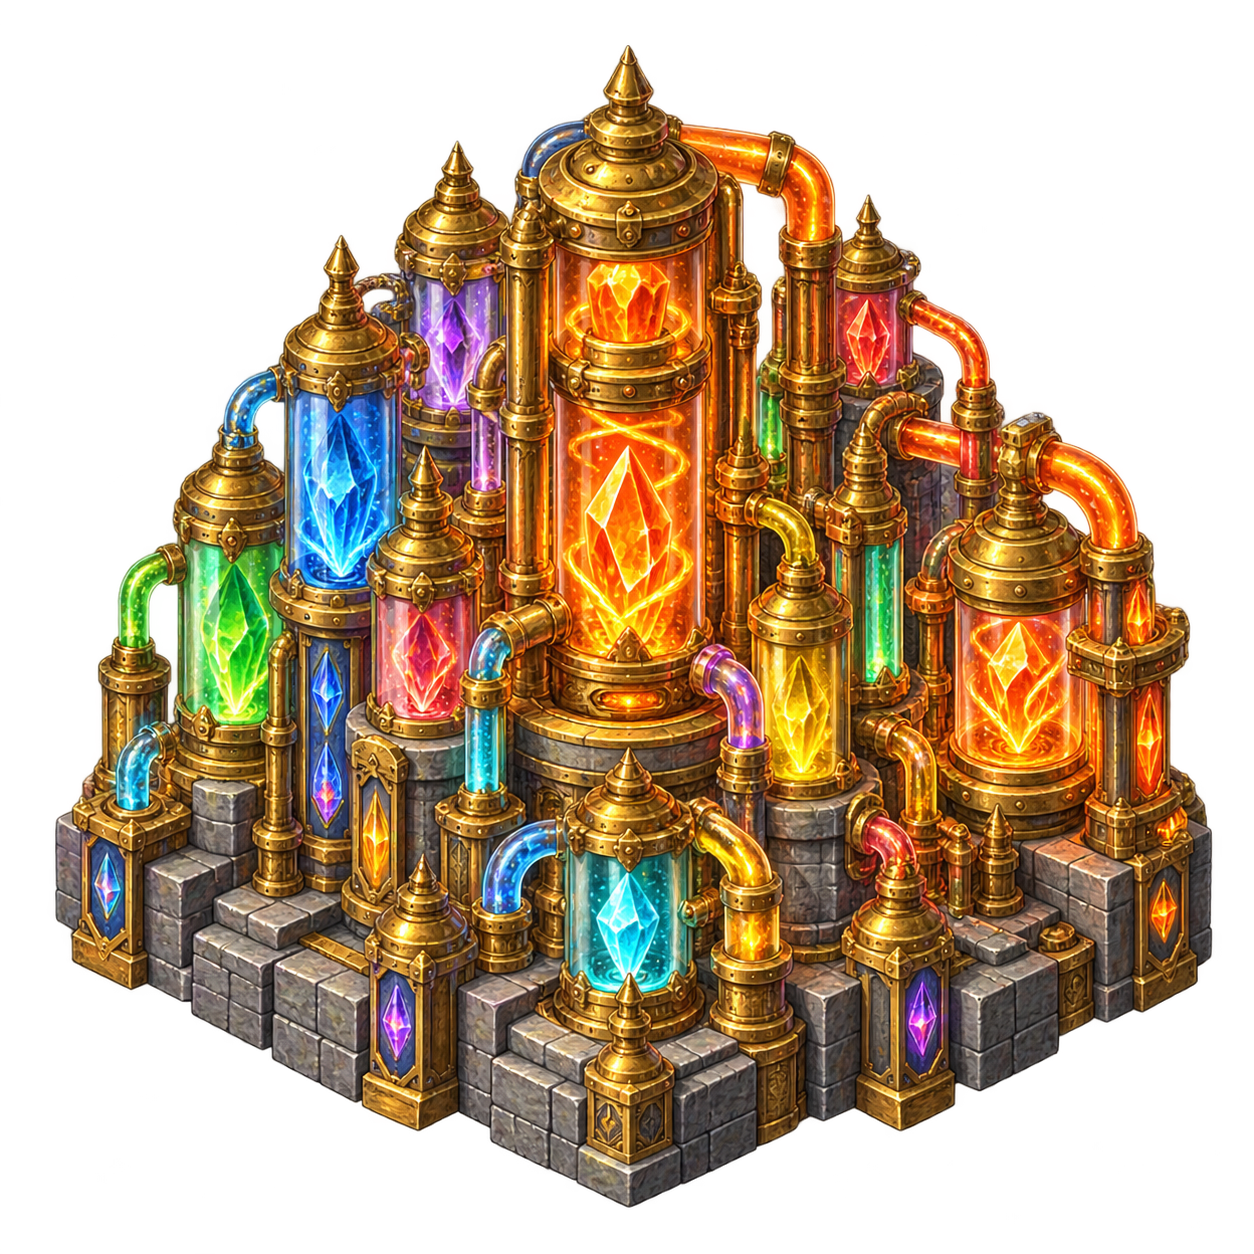
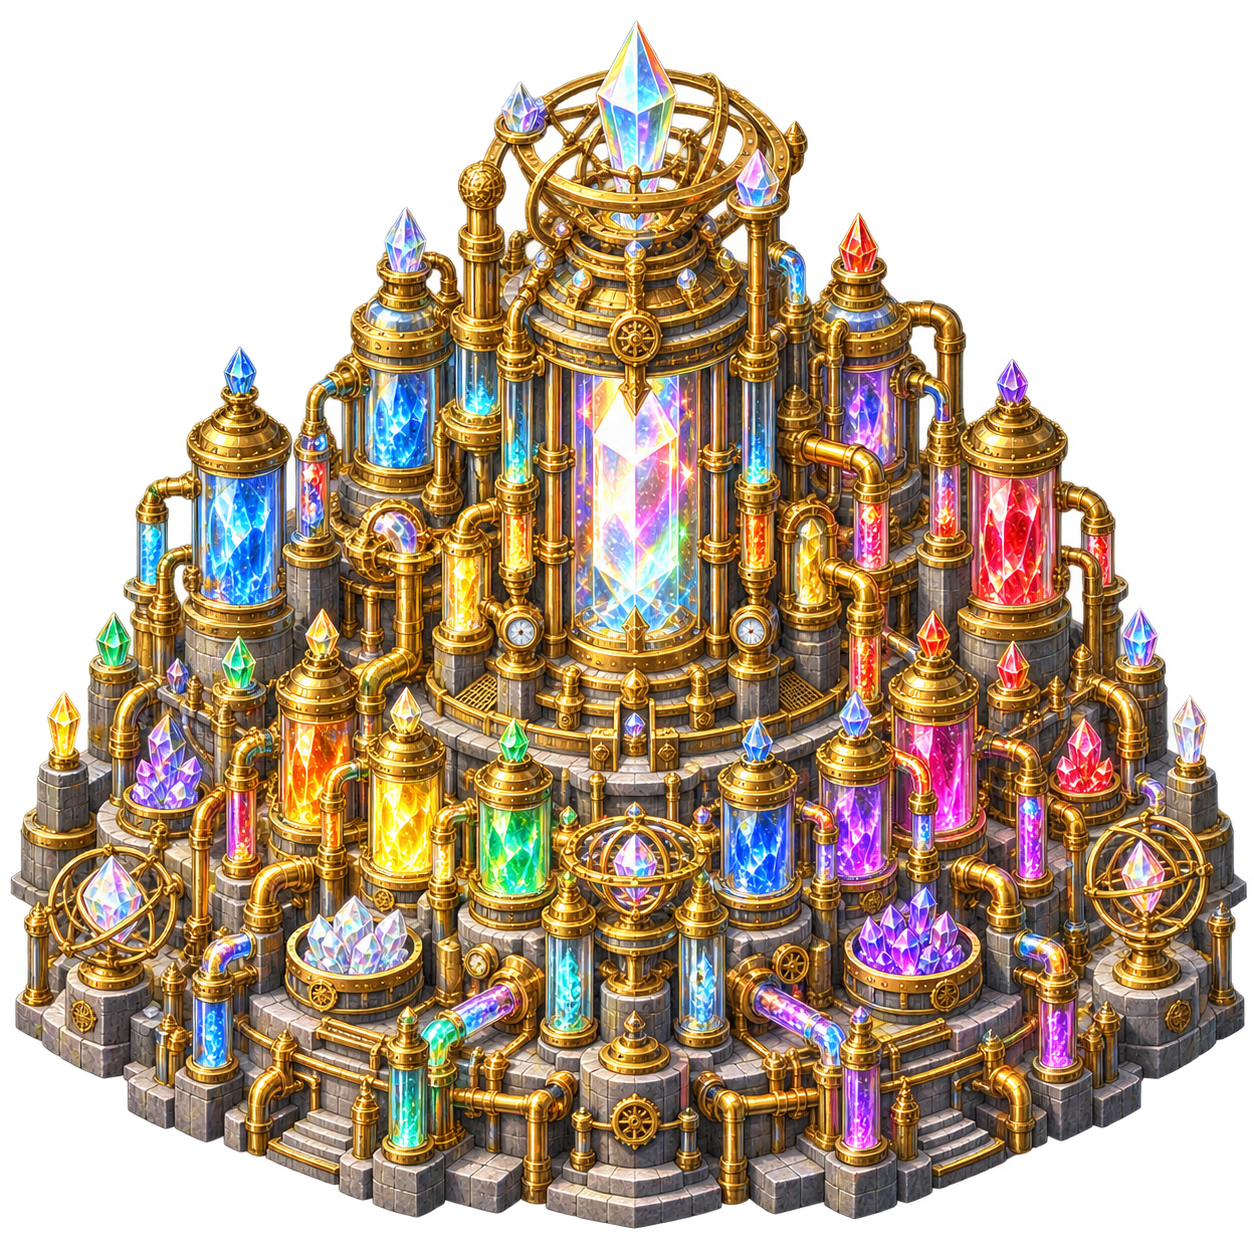
Fix validation bugs: prevent negative transfers/prices and self-transfers

diff --git a/gem-workshop-utils.test.js b/gem-workshop-utils.test.js
@@ -9,12 +9,12 @@ test('refinery starts at Ruby and upgrades with five new gems and ten of every l
  for(let level=1;level<tiers.length;level++){const next=refineryProgress(user,tiers).nextUpgrade,old={...user.gems};assert.equal(next.costs.length,level+1);const update=workshopAction(user,tiers,'upgrade',{tierId:next.tierId});assert.equal(update.gemRefineryLevel,level);for(let i=0;i<=level;i++){const key=require('./gem-utils').gemIdentity(tiers[i]).gemKey;assert.equal(update.gems[key],old[key]-(i===level?5:10));}user={...user,...update};assert.throws(()=>workshopAction(user,tiers,'upgrade',{tierId:next.tierId}),/no longer/);}
  assert.equal(refineryProgress(user,tiers).nextUpgrade,null);assert.throws(()=>workshopAction({gems:{bronze:10,'rare-bronze':4}},tiers,'upgrade',{tierId:'1'}),/5 Garnet/);assert.throws(()=>workshopAction(user,tiers,'craft',{}),/no longer/);
 });
-test('a refinery upgrade only unlocks the new output, not later gems',()=>{const u={gemRefineryLevel:1,gems:{bronze:8,'rare-bronze':8}};assert.equal(workshopAction(u,tiers,'compress',{gemKey:'bronze',quantity:2}).gems['rare-bronze'],10);assert.throws(()=>workshopAction(u,tiers,'compress',{gemKey:'rare-bronze',quantity:1}),/Upgrade/);});
+test('a refinery upgrade only unlocks the new output, not later gems',()=>{const u={gemRefineryLevel:1,gems:{bronze:10,'rare-bronze':8}};assert.equal(workshopAction(u,tiers,'compress',{gemKey:'bronze',quantity:2}).gems['rare-bronze'],10);assert.throws(()=>workshopAction(u,tiers,'compress',{gemKey:'rare-bronze',quantity:1}),/Upgrade/);});
 
-test('legacy all-tier machines retain recipes, refinement spends 4 per output and follows next configured tier', () => {
-  const user = { gemCompressor: true, gems: { bronze: 11, 'rare-bronze': 1, ultra: 4 } };
+test('legacy all-tier machines retain recipes, refinement spends 5 per output and follows next configured tier', () => {
+  const user = { gemCompressor: true, gems: { bronze: 11, 'rare-bronze': 1, ultra: 5 } };
   const result = workshopAction(user, tiers, 'compress', { gemKey: 'bronze', quantity: 2 });
-  assert.equal(result.gems.bronze, 3); assert.equal(result.gems['rare-bronze'], 3);
+  assert.equal(result.gems.bronze, 1); assert.equal(result.gems['rare-bronze'], 3);
   assert.equal(workshopAction(user, tiers, 'compress', { gemKey: 'ultra', quantity: 1 }).gems['tier-9'], 1);
   for (const quantity of [0, -1, 1.5, 3, Number.MAX_SAFE_INTEGER]) assert.throws(() => workshopAction(user, tiers, 'compress', { gemKey: 'bronze', quantity }));
   assert.throws(() => workshopAction({ ...user, gemCompressor: false }, tiers, 'compress', { gemKey: 'bronze', quantity: 1 }));
@@ -72,3 +72,5 @@ test('batch rejects insufficient dyes, invalid areas and conflicting saved chang
   const reset = workshopAction(user, tiers, 'confirm-dyes', { originalTheme: user.gemTheme, changes: { header: '' } });
   assert.deepEqual(reset.gemTheme, {}); assert.equal(reset.gemDyes.bronze, 1);
 });
+
+test('one final upgrade unlocks every tier after Ultra and charges five of each special',()=>{const all=[...tiers,{name:'Mini',id:'mini'},{name:'Mirror',id:'mirror'}],{refineryProgress}=require('./gem-workshop-utils'),{gemIdentity}=require('./gem-utils');let u={gemRefineryLevel:8,gems:Object.fromEntries(all.map(t=>[gemIdentity(t).gemKey,20]))};const p=refineryProgress(u,all);assert.equal(p.max,9);assert.equal(p.nextUpgrade.gemName,'All special crystals');assert.deepEqual(p.nextUpgrade.costs.map(c=>c.amount),[10,10,10,10,10,10,10,10,10,5,5,5]);u={...u,...workshopAction(u,all,'upgrade',{tierId:'9'})};assert.equal(refineryProgress(u,all).nextUpgrade,null);assert.equal(refineryProgress(u,all).unlockedIndex,11);assert.equal(refineryProgress({...u,gemRefineryLevel:11},all).level,9);assert.equal(workshopAction(u,all,'compress',{gemKey:'tier-mini',quantity:1}).gems['tier-mirror'],16);assert.throws(()=>workshopAction({gemRefineryLevel:1,gems:{bronze:4}},all,'compress',{gemKey:'bronze',quantity:1}),/Not enough/);});

diff --git a/gem-workshop-utils.js b/gem-workshop-utils.js
@@ -2,10 +2,11 @@ const { gemIdentity } = require('./gem-utils');
 const DYE_AREAS = { background: 'Page background', header: 'Header', panels: 'Section panels', navigation: 'Navigation tabs', buttons: 'Primary buttons', success: 'Buy and success buttons', borders: 'Panel borders', inputs: 'Input fields', balance: 'Footy balance', converter: 'Gem converter', machine: 'Conversion chamber', amulets: 'Amulet shop background', slots: 'Empty amulet slots', notices: 'Status messages' };
 const { effects } = require('./amulet-utils');
 function refineryProgress(user,tiers){
- const identities=tiers.map(gemIdentity),max=Math.max(0,identities.length-1);
- // Players who paid for the old all-tier machine keep its unlocked recipes.
- const level=Number.isSafeInteger(user.gemRefineryLevel)?Math.max(0,Math.min(max,user.gemRefineryLevel)):(user.gemCompressor===true?max:0);
- const next=identities[level+1];return {level,max,current:identities[level]||null,nextUpgrade:next?{...next,costs:identities.slice(0,level+2).map((g,i)=>({...g,amount:i===level+1?5:10}))}:null};
+ const identities=tiers.map(gemIdentity),diamond=identities.findIndex(g=>g.gemKey==='ultra'),hasSpecial=diamond>=0&&diamond<identities.length-1,max=hasSpecial?diamond+1:Math.max(0,identities.length-1);
+ // Existing all-tier machines and previous special-tier upgrades retain every recipe.
+ const level=Number.isSafeInteger(user.gemRefineryLevel)?Math.max(0,Math.min(max,user.gemRefineryLevel)):(user.gemCompressor===true?max:0),allSpecial=hasSpecial&&level===max,unlockedIndex=allSpecial?identities.length-1:level;
+ const specialUpgrade=hasSpecial&&level===diamond,next=level<max?identities[level+1]:null;
+ return {level,max,unlockedIndex,artLevel:allSpecial?9:level,current:allSpecial?{...identities[level],gemName:'All special crystals'}:identities[level]||null,nextUpgrade:next?{...next,...(specialUpgrade?{gemName:'All special crystals',unlocks:identities.slice(diamond+1)}:{}),costs:identities.slice(0,specialUpgrade?identities.length:level+2).map((g,i)=>({...g,amount:i>level?5:10}))}:null};
 }
 function dyeInventory(user) {
   // Convert each previously purchased permanent color into one batch of five dyes.
@@ -26,13 +27,13 @@ function workshopAction(user, tiers, action, body) {
   if (action === 'compress') {
     const index = identities.findIndex(gem => gem.gemKey === body.gemKey);
     if (index < 0 || index >= identities.length - 1) throw new Error('This gem has no next tier');
-    if(index+1>refineryProgress(user,tiers).level)throw Error('Upgrade your refinery to unlock this output gem.');
-    if (!Number.isSafeInteger(body.quantity) || body.quantity < 1 || !Number.isSafeInteger(body.quantity * 4)) throw new Error('Enter a positive whole output quantity');
-    if (!(gems[body.gemKey] >= body.quantity * 4)) throw new Error('Not enough gems');
+    if(index+1>refineryProgress(user,tiers).unlockedIndex)throw Error('Upgrade your refinery to unlock this output gem.');
+    if (!Number.isSafeInteger(body.quantity) || body.quantity < 1 || !Number.isSafeInteger(body.quantity * 5)) throw new Error('Enter a positive whole output quantity');
+    if (!(gems[body.gemKey] >= body.quantity * 5)) throw new Error('Not enough gems');
     const next = identities[index + 1].gemKey;
     const total = Number(gems[next] || 0) + body.quantity;
     if (!Number.isSafeInteger(total)) throw new Error('Gem balance too large');
-    gems[body.gemKey] -= body.quantity * 4; gems[next] = total;
+    gems[body.gemKey] -= body.quantity * 5; gems[next] = total;
     return { gems };
   }
   const dyes = dyeInventory(user);

diff --git a/public/gem-workshop.js b/public/gem-workshop.js
@@ -21,8 +21,8 @@ function renderGemWorkshop() {
   craft.disabled=workshopBusy||!next||next.costs.some(c=>(data.gems[c.gemKey]||0)<c.amount);
   document.getElementById('refineryUpgradeCost').textContent=next?next.costs.map(c=>`${c.amount} ${c.gemName}`).join(' + '):'Every gem tier is unlocked.';
   document.getElementById('refineryTier').textContent=`${refinery.current?.gemName||'Ruby'} refinery`;
-  const picture=document.createElement('img');picture.src=`assets/village/refinery/tier-${Math.min(13,refinery.level)}.png`;picture.alt='Crystal refinery laboratory';document.getElementById('refineryPreview').replaceChildren(picture);
-  workshopOptions('compressGem', data.tiers.slice(0,refinery.level).filter(gem=>data.gems[gem.gemKey]>0).map(gem=>[gem.gemKey,`${gem.gemName} (${data.gems[gem.gemKey]})`]));
+  const picture=document.createElement('img');picture.src=`assets/village/refinery/tier-${Math.min(9,refinery.artLevel??refinery.level)}.png`;picture.alt='Crystal refinery laboratory';document.getElementById('refineryPreview').replaceChildren(picture);
+  workshopOptions('compressGem', data.tiers.slice(0,refinery.unlockedIndex??refinery.level).filter(gem=>data.gems[gem.gemKey]>0).map(gem=>[gem.gemKey,`${gem.gemName} (${data.gems[gem.gemKey]})`]));
   const palette = document.getElementById('gemDyePalette'); palette.replaceChildren();
   for (const gem of data.tiers.filter(gem => data.gems[gem.gemKey] > 0 || (data.dyes[gem.gemKey] || 0) > 0)) {
     const tile = amuletNode('div', undefined, 'gem-balance-tile');
@@ -37,7 +37,7 @@ function renderGemWorkshop() {
   updateCompressionQuote();
 }
 function maxCompression() {
-  document.getElementById('compressQuantity').value = Math.floor((workshopState?.gems[document.getElementById('compressGem').value] || 0) / 4);
+  document.getElementById('compressQuantity').value = Math.floor((workshopState?.gems[document.getElementById('compressGem').value] || 0) / 5);
   updateCompressionQuote();
 }
 function updateCompressionQuote() {
@@ -46,9 +46,9 @@ function updateCompressionQuote() {
   const index = workshopState.tiers.findIndex(gem => gem.gemKey === key);
   const next = index >= 0 ? workshopState.tiers[index + 1] : null;
   const count = Number(document.getElementById('compressQuantity').value);
-  const valid = Number.isSafeInteger(count) && count > 0 && Number.isSafeInteger(count * 4);
-  document.getElementById('compressionQuote').textContent = !(workshopState.refinery?.level>0) ? 'Upgrade to Garnet to unlock Ruby refinement.' : next && valid ? `${count * 4} ${workshopState.tiers[index].gemName} → ${count} ${next.gemName}` : 'Choose a source gem and positive whole output quantity.';
-  document.getElementById('compressGems').disabled = workshopBusy || index+1>(workshopState.refinery?.level||0) || !next || !valid || (workshopState.gems[key] || 0) < count * 4;
+  const valid = Number.isSafeInteger(count) && count > 0 && Number.isSafeInteger(count * 5);
+  document.getElementById('compressionQuote').textContent = !(workshopState.refinery?.level>0) ? 'Upgrade to Garnet to unlock Ruby refinement.' : next && valid ? `${count * 5} ${workshopState.tiers[index].gemName} → ${count} ${next.gemName}` : 'Choose a source gem and positive whole output quantity.';
+  document.getElementById('compressGems').disabled = workshopBusy || index+1>(workshopState.refinery?.unlockedIndex||0) || !next || !valid || (workshopState.gems[key] || 0) < count * 5;
 }
 async function workshopAction(action, body) {
   if (workshopBusy || !workshopState) return;

diff --git a/public/village-art.js b/public/village-art.js
@@ -1,6 +1,7 @@
 /* Painted island and a shared transparent atlas; no game engine or render loop. */
 (() => {
  const atlas='assets/village/buildings-painted.png';
+ const refineryAnchors=[[523, 889], [523, 845], [517, 897], [530, 876], [512, 921], [514, 888], [512, 928], [511, 957], [514, 958], [513, 966]];
  const cells={townhall:0,archive:1,market:2,forge:3,arena:4,wheel:5,blacksmith:6,pets:7,cabinet:8,dye:9,compressor:10,vault:11,vip:12};
  // Individual silhouettes isolate neighbours even where atlas rows overlap.
  const frames=[
@@ -30,7 +31,7 @@
  }
 
  function building(kind,level=0,locked=false){
-  if(kind==='compressor'&&!locked){const tier=Math.max(0,Math.min(13,Math.trunc(level)||0)),size=90+tier*4;return anchored(0,0,1024,1024,512,860,size/1024,`<image href="assets/village/refinery/tier-${tier}.png" width="1024" height="1024"/>`);}
+  if(kind==='compressor'&&!locked){const tier=Math.max(0,Math.min(9,Math.trunc(level)||0)),size=tier===9?142:90+tier*4;return anchored(0,0,1024,1024,...refineryAnchors[tier],size/1024,`<image href="assets/village/refinery/tier-${tier}.png" width="1024" height="1024"/>`);}
   if(kind==='timebank'&&!locked)return anchored(0,0,1024,1024,512,865,80/1024,`<image href="assets/village/time-bank-painted.png" width="1024" height="1024"/>`);
   if(kind==='jobs'&&!locked)return anchored(0,0,1024,1024,512,865,80/1024,`<image href="assets/village/job-station-painted.png" width="1024" height="1024"/>`);
   if(kind==='petstation')return anchored(0,0,1024,1024,512,850,80/1024,`<image href="assets/village/pet-station-painted.png" width="1024" height="1024"/>`);

diff --git a/public/index.html b/public/index.html
@@ -446,7 +446,7 @@
       </details>
       <details id="gemWorkshop" class="gem-converter" ontoggle="if(this.open) loadGemWorkshop()">
         <summary>Gem Workshop - Refinery &amp; Dyes</summary>
-        <h3>Crystal refinery</h3><p>Unlock each output tier with 5 gems of that tier and 10 of every lower tier. Once unlocked, refine 4 source gems into 1 gem of the next tier.</p>
+        <h3>Crystal refinery</h3><p>Unlock each output tier with 5 gems of that tier and 10 of every lower tier. After Diamond, one final upgrade unlocks all special tiers together. Once unlocked, refine 5 source gems into 1 gem of the next tier.</p>
         <div id="refineryPreview" class="refinery-preview"></div><h3 id="refineryTier">Ruby refinery</h3><p id="refineryUpgradeCost"></p><button id="craftCompressor" class="btn btn-primary" onclick="workshopAction('upgrade', {tierId:workshopState.refinery.nextUpgrade?.tierId})" disabled>Upgrade refinery</button>
         <label for="compressGem">Source gem</label><select id="compressGem" onchange="updateCompressionQuote()"></select>
         <label for="compressQuantity">Gems to produce</label><input id="compressQuantity" type="number" min="1" step="1" value="1" oninput="updateCompressionQuote()">
